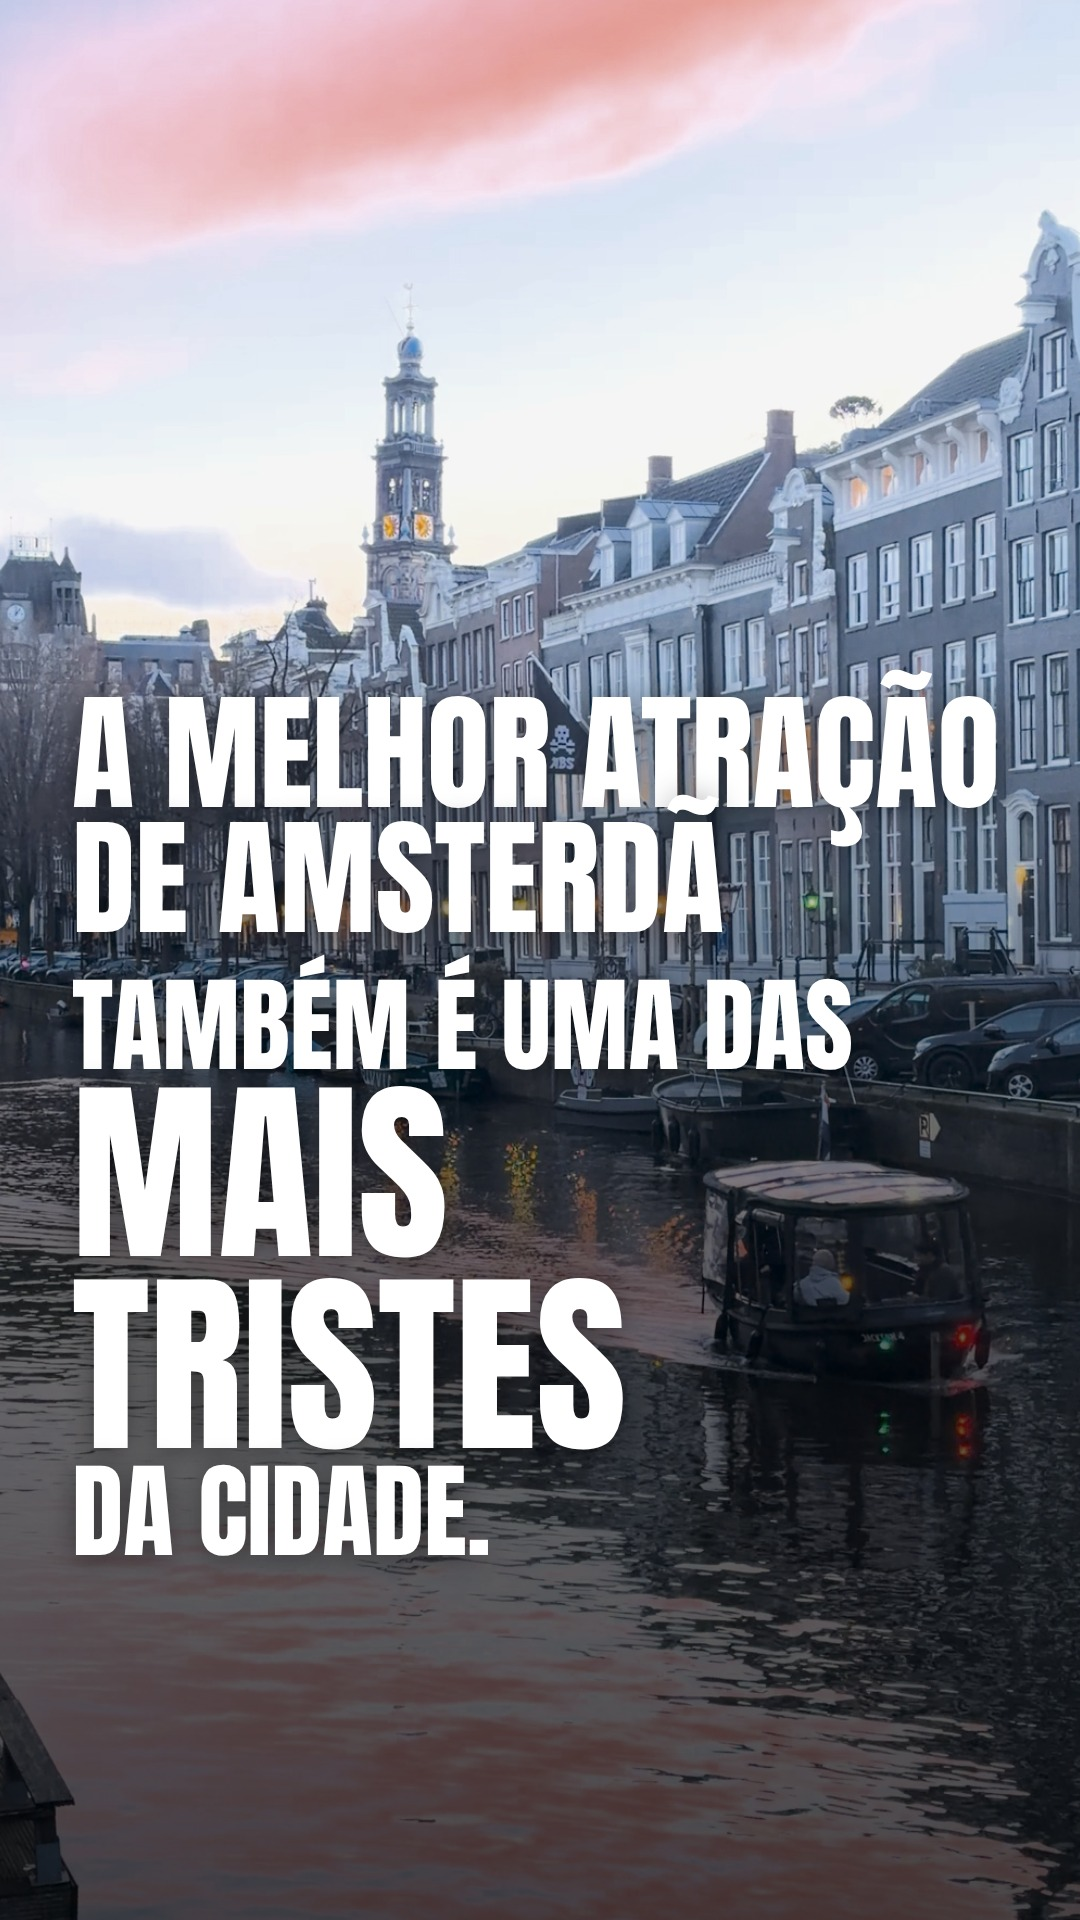
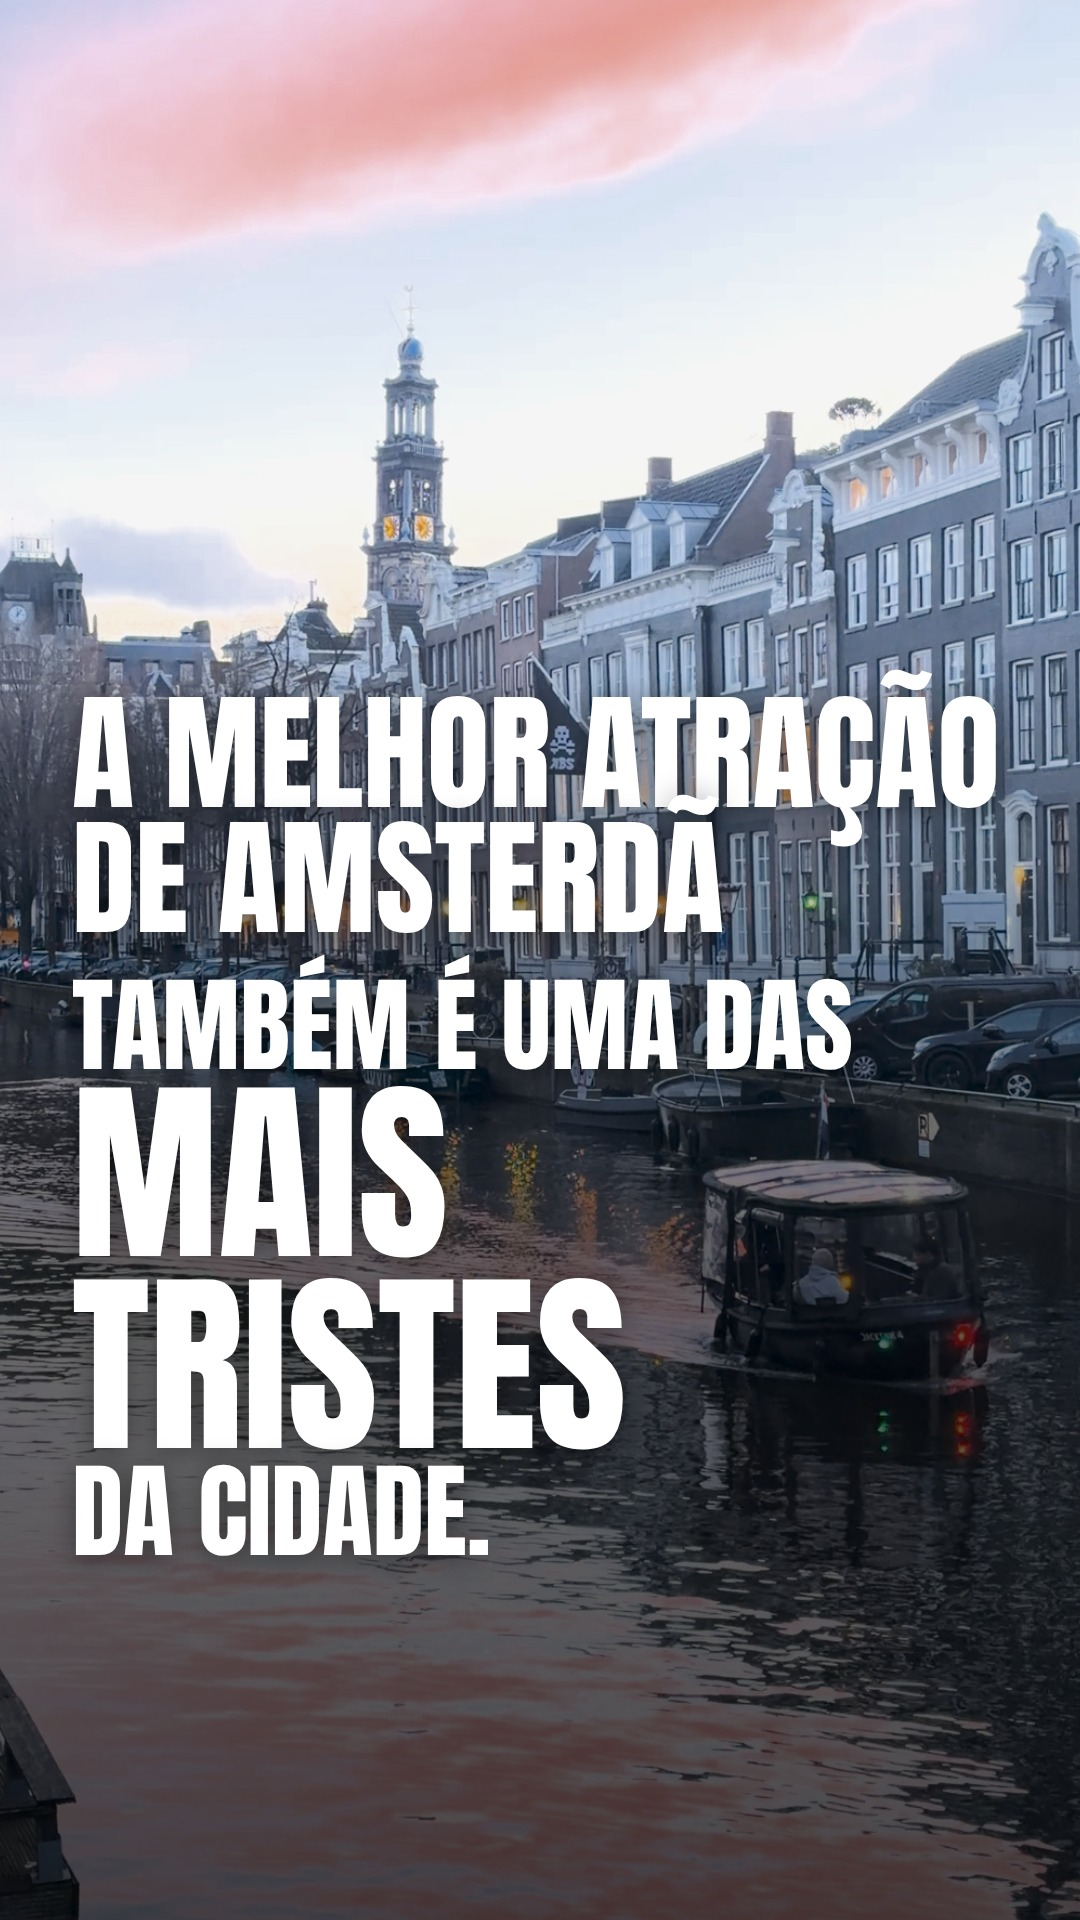
Reel Anne Frank REV1: corrige o corte seco no fim de "cidade."
A trilha de áudio do IMG_7143 acaba em 3,70 s, no meio da última sílaba. O rev1.py
agora alonga a vogal final e aplica queda suave; take 1 com 0,13 s a mais (50,4 s).
Corrige também o passo da capa no rev1.py (composição e quadro).

Claude-Session: https://claude.ai/code/session_01PyyfhGN9NJLbaqPvLY8H7R

diff --git a/reels/anne-frank/rev1/rev1.py b/reels/anne-frank/rev1/rev1.py
@@ -191,8 +191,21 @@ def preparar():
         a = os.path.join(TMP, f"fala_{fa['id']}.wav")
         sh(["ffmpeg", "-v", "error", "-y", "-ss", f"{fa['in']:.3f}", "-i", src, "-vf",
             f"{TONEMAP},scale={W}:{H}:flags=lanczos,fps={fps},format=yuv420p,setsar=1", "-frames:v", str(fa["quadros"]), "-an", *SAIDA_X264, v])
-        sh(["ffmpeg", "-v", "error", "-y", "-ss", f"{fa['in']:.3f}", "-i", src, "-vn", "-ac", "2", "-ar", "48000", "-af",
-            f"apad,atrim=0:{fa['dur']:.5f},afade=t=in:d=0.012,afade=t=out:st={fa['dur'] - 0.06:.4f}:d=0.06", "-c:a", "pcm_s24le", a])
+        c = fa.get("cauda")
+        if c:
+            # O bruto tem a trilha de áudio mais curta que o vídeo e a voz ainda soa no último quadro (corte no meio
+            # da última sílaba). Alonga a vogal final (WSOLA, mantém o tom) e faz uma queda suave, sem inventar fala.
+            L = c["audio_fim"] - fa["in"]
+            m = c["ms"] / 1000
+            q = c["queda_ms"] / 1000
+            af = (f"[0:a]atrim=0:{L - m:.4f},asetpts=PTS-STARTPTS[h];"
+                  f"[0:a]atrim={L - m:.4f}:{L:.4f},asetpts=PTS-STARTPTS,atempo={1 / c['esticar']:.3f},afade=t=out:st={m * c['esticar'] - q:.4f}:d={q:.4f}[t];"
+                  f"[h][t]acrossfade=d=0.012:c1=tri:c2=tri,apad,atrim=0:{fa['dur']:.5f},afade=t=in:d=0.012[o]")
+            sh(["ffmpeg", "-v", "error", "-y", "-ss", f"{fa['in']:.3f}", "-i", src, "-vn", "-ac", "2", "-ar", "48000", "-filter_complex", af,
+                "-map", "[o]", "-c:a", "pcm_s24le", a])
+        else:
+            sh(["ffmpeg", "-v", "error", "-y", "-ss", f"{fa['in']:.3f}", "-i", src, "-vn", "-ac", "2", "-ar", "48000", "-af",
+                f"apad,atrim=0:{fa['dur']:.5f},afade=t=in:d=0.012,afade=t=out:st={fa['dur'] - 0.06:.4f}:d=0.06", "-c:a", "pcm_s24le", a])
         lista_v.append(v)
         lista_a.append(a)
     with open(os.path.join(TMP, "concat.txt"), "w") as f:
@@ -340,7 +353,7 @@ def master():
 
 def capa():
     props = os.path.join(TMP, "props.json")
-    remotion(["still", "src/index.ts", "CapaAnneFrank", CAPA, f"--props={props}", f"--public-dir={PUBLIC}", "--image-format=jpeg",
+    remotion(["still", "src/index.ts", "ReelAnneFrank", CAPA, "--frame=106", f"--props={props}", f"--public-dir={PUBLIC}", "--image-format=jpeg",
               "--jpeg-quality=92", "--log=warn"])
 
 

diff --git a/reels/anne-frank/rev1/QA_REV1.md b/reels/anne-frank/rev1/QA_REV1.md
@@ -4,7 +4,7 @@
 
 | Item | Valor |
 |---|---|
-| Arquivo final | `reel_anne-frank_rev1.mp4` · 1080 × 1920 · 30 fps · 50,3 s · H.264 + AAC 320 kbps |
+| Arquivo final | `reel_anne-frank_rev1.mp4` · 1080 × 1920 · 30 fps · 50,4 s · H.264 + AAC 320 kbps |
 | Prévia leve | `reel_anne-frank_rev1_previa.mp4` (540 × 960) |
 | Capa | `capa_anne-frank_rev1.jpg` (quadro do gancho com a frase inteira) |
 | Áudio | −14,0 LUFS integrados · pico verdadeiro −1,4 dBTP (DS V2, 4.6) · faixa única: voz original + *clack* do CTA |
@@ -129,7 +129,7 @@ Os valores ficam em `design-system/remotion/src/annefrank/estilo.ts`, separados 
 | Voz original preservada | ✅ Sem voz sintética, sem corte dentro das frases; só ganho, passa-alta em 70 Hz e o master |
 | DS V2 só no CTA | ✅ Placa CTA (2.7), Chegada e *clack* (4.6) só a partir de 47,07 s. O resto usa Anton, Inter e a paleta acima |
 | Animações não escondem informação | ✅ Rótulos no topo da imagem, legenda na costura ou no terço de baixo, nada na faixa da interface do Instagram (y 1440–1920) |
-| Render conferido | ✅ Render completo (1.508 quadros, 50,27 s), conferido por quadros (folha de 26 quadros, um por cena) e pela medição do áudio (B-rolls sem faixa de som; depois da fala, só o *clack* em 47,5 s). A escuta é do Diego |
+| Render conferido | ✅ Render completo (1.512 quadros, 50,40 s), conferido por quadros (folha de 26 quadros, um por cena) e pela medição do áudio (B-rolls sem faixa de som; depois da fala, só o *clack* em 47,5 s). A escuta é do Diego |
 
 ## Conformidade com o DS V2 (só o CTA)
 
@@ -154,7 +154,7 @@ Os valores ficam em `design-system/remotion/src/annefrank/estilo.ts`, separados 
 | 7 | Conformidade DS V2 | ✅ No CTA (acima) |
 | 8 | Identidade verbal | ✅ Direto e preciso; sem bordão (não é Reel de primeiro dia) |
 | 9 | Originalidade | ✅ Fala e vídeos próprios; fotos de arquivo com licença e crédito |
-| 10 | Formato e duração | ⚠ **50,3 s**, acima da duração padrão de 7–30 s da referência de conteúdo (3.1). Toda a fala ficou, porque cada frase leva a história adiante. Ver "Riscos" |
+| 10 | Formato e duração | ⚠ **50,4 s**, acima da duração padrão de 7–30 s da referência de conteúdo (3.1). Toda a fala ficou, porque cada frase leva a história adiante. Ver "Riscos" |
 
 ## Conferir no ouvido (≈ 2 min)
 
@@ -174,11 +174,12 @@ Se algo estiver errado: corrigir `correcoes_legenda` em `rev1.json` e rodar `pyt
 - **Linha do tempo com datas exatas** (6/7/1942 → 4/8/1944) sob o "2 ANOS" que o Diego fala: deixa o número verificável.
 - **Nomes das 8 pessoas na tela:** dado histórico público. Ajuda a entender "outras quatro pessoas" e "o único das oito".
 - **Sem imagem para "perseguição aos judeus"**. A foto da estrela amarela encontrada no Commons era a versão belga ("J"), errada para Amsterdam; a holandesa ("Jood") não baixou (o Commons limitou o acesso). Em vez disso, o diário fica na tela, bem de perto e escurecido.
+- **Final de "cidade." (ajuste de 24/10/2026, pedido do Diego).** A trilha de áudio do bruto `IMG_7143` acaba em 3,70 s, no meio do "de" (o vídeo vai até 3,97 s). A sílaba cortada não existe no arquivo e não foi recriada. O `rev1.py` alonga a vogal final (últimos 150 ms esticados 2×, mesmo tom) e aplica uma queda de 180 ms, no lugar do corte seco; o take 1 ficou 0,13 s mais longo e as cenas seguintes deslocaram igual (a tabela de cortes acima vale com esse deslocamento, ≈ +0,13 s a partir de 3,7 s). **Conferir no ouvido.** Solução definitiva: regravar só essa frase, com respiro depois de "cidade.", e trocar o take 1 (material futuro, não bloqueia a postagem).
 - **30 fps** (FPS de produção não definido, pendência 5).
 
 ## Riscos
 
-- **Duração (50,3 s).** Se a retenção cair antes da metade no Insights, a próxima versão pode cortar o take 4 (diário, 6,3 s) ou o take 6 (1960, 6,3 s) e ficar em ≈ 38–44 s. É **uma variável por teste** (referência de conteúdo, 8.3).
+- **Duração (50,4 s).** Se a retenção cair antes da metade no Insights, a próxima versão pode cortar o take 4 (diário, 6,3 s) ou o take 6 (1960, 6,3 s) e ficar em ≈ 38–44 s. É **uma variável por teste** (referência de conteúdo, 8.3).
 - **Tema sensível.** Nada de humor, efeito sonoro ou figurinha na divulgação. Os gráficos usam só dados históricos.
 - **Fotos de Anne Frank:** domínio público na UE; status discutido nos EUA (ver "Imagens externas").
 

diff --git a/reels/anne-frank/rev1/TRANSCRICAO.md b/reels/anne-frank/rev1/TRANSCRICAO.md
@@ -4,7 +4,7 @@ Transcrição automática dos 7 takes da pasta do Drive "Reel Anne Frank" (grava
 
 | Ordem | Arquivo | Trecho usado (s) | Fala |
 |---|---|---|---|
-| 1 | `IMG_7143.MOV` | 0,10–3,71 | A melhor atração de Amsterdã também é uma das mais tristes da cidade. |
+| 1 | `IMG_7143.MOV` | 0,10–3,85 | A melhor atração de Amsterdã também é uma das mais tristes da cidade. |
 | 2 | `IMG_7101.MOV` | 0,28–8,20 | Por fora parece só mais uma casa bonita à beira de um canal, mas por dentro, atrás de um armário, havia uma passagem para um anexo secreto da casa. |
 | 3 | `IMG_7106.MOV` | 0,10–6,80 | Foi ali que Anne Frank, com apenas 13 anos, passou dois anos de sua vida escondida com a sua família e outras quatro pessoas. |
 | 4 | `IMG_7112.MOV` | 0,14–6,45 | Durante esse período, ela escreveu um diário que se tornou um dos relatos mais conhecidos sobre a perseguição aos judeus durante o nazismo. |
@@ -17,7 +17,7 @@ A ordem dos arquivos foi confirmada pela fala e bate com a lista do Diego (1 "a 
 ## Pontos a conferir no ouvido
 
 1. **Take 2, 0,7 s:** os dois modelos escrevem "por fora **aparece** só", mas com confiança baixa (0,30). A lista do Diego diz "por fora **parece**". A legenda usa **"parece"**. Se for mesmo "aparece", trocar em `rev1.json` (`correcoes_legenda`).
-2. **Take 1, final:** o arquivo termina 0,0–0,3 s depois de "cidade.". Conferir se a palavra não ficou cortada.
+2. **Take 1, final:** a trilha do bruto acaba em 3,70 s, no meio do "de" de "cidade.". A vogal foi alongada com queda suave (ver `QA_REV1.md`). Conferir.
 3. **Take 6, final:** o arquivo termina logo depois de "vazio.". Mesmo ponto.
 4. **Take 6, 4,5 s:** os dois modelos ouvem "a pedido do pai **de Frank**" (e não "de Anne"). A legenda reproduz a fala.
 5. **Take 1:** a lista do Diego dizia "a melhor **história**", mas a fala é "a melhor **atração**". O gancho usa a fala real.
